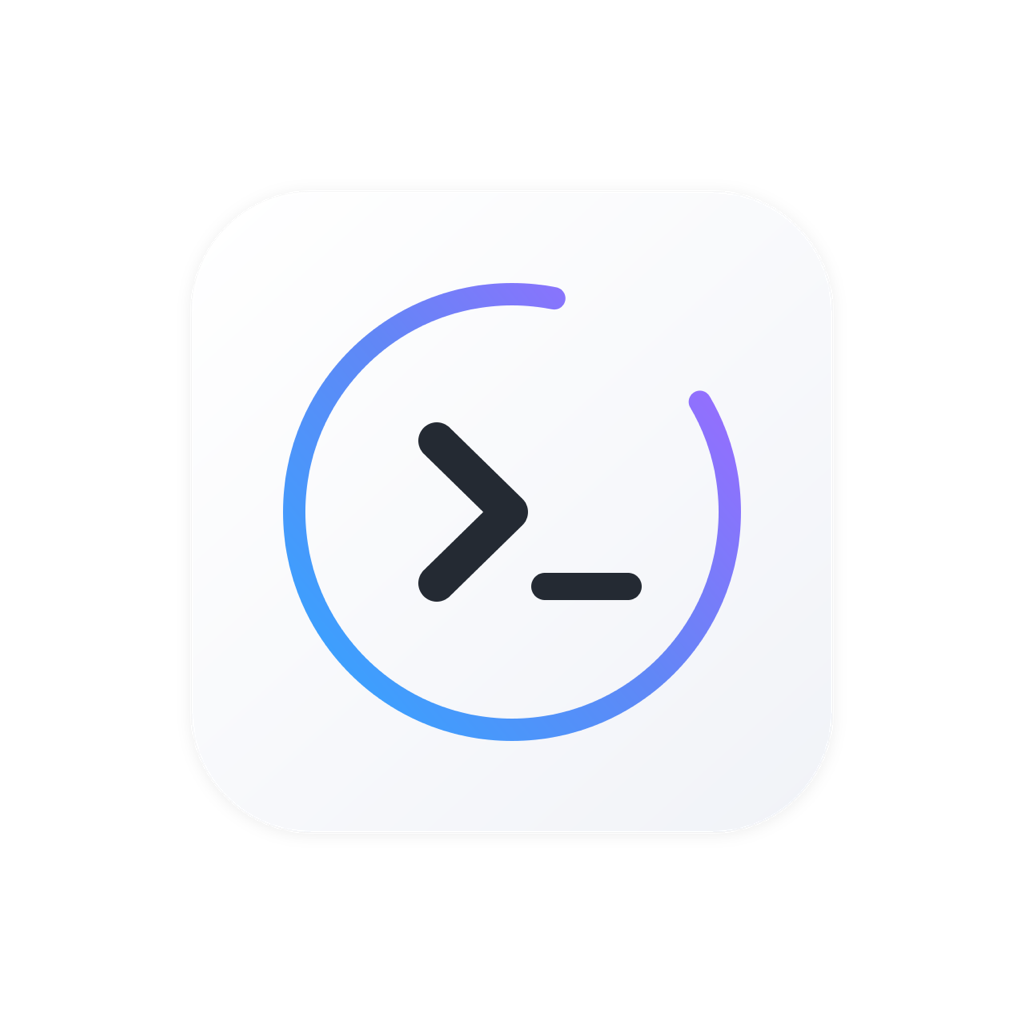
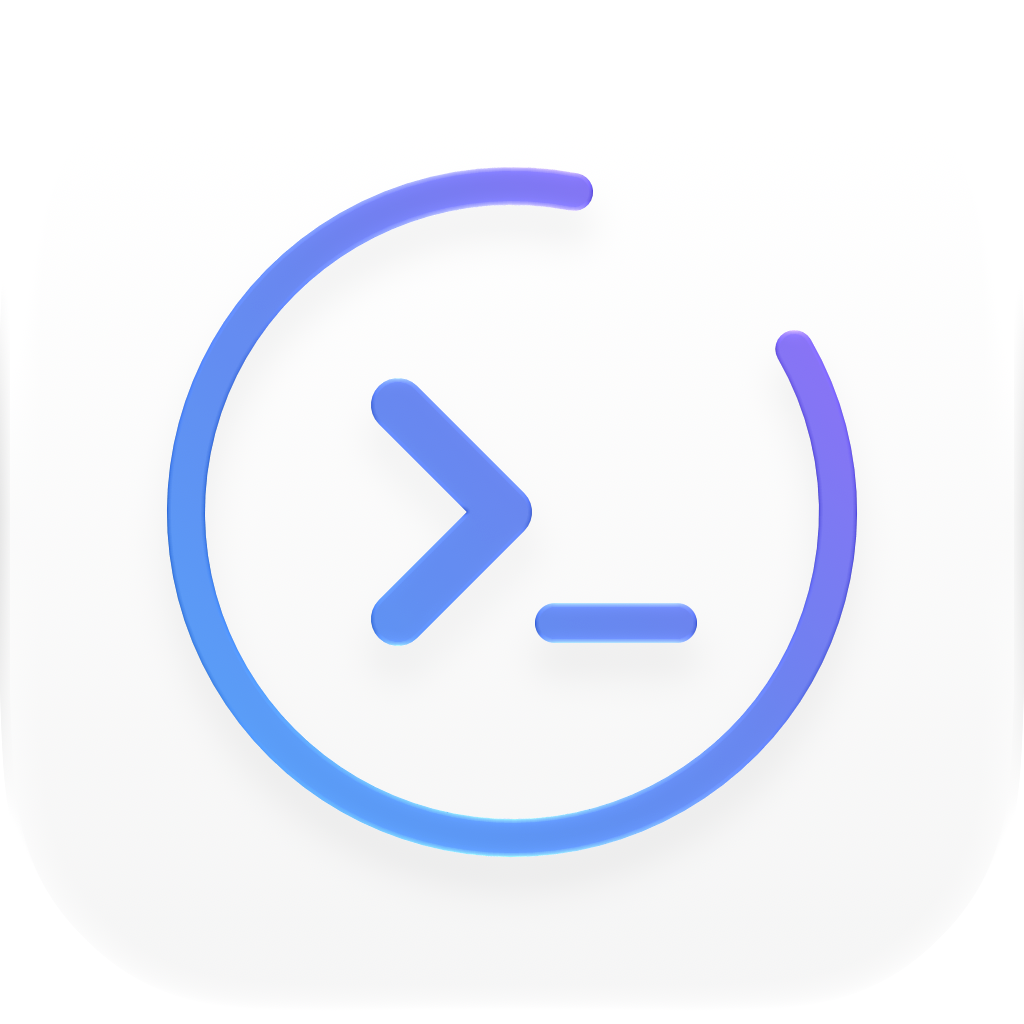
docs: publish v2.0.0 distribution

Changed region(s): [[0.1562, 0.1562, 0.8438, 0.8438], [0.25, 0.25, 0.75, 0.75]]

diff --git a/README.md b/README.md
@@ -5,8 +5,7 @@
 <h1 align="center">Loop</h1>
 
 <p align="center">
-  Native macOS workspace for running Claude Code, Codex, and Cursor across
-  projects with chat, terminals, Git, preview, planning, building, and review.
+  A native Mac workspace for Claude and Codex.
 </p>
 
 <p align="center">
@@ -15,63 +14,32 @@
 
 ---
 
-Loop is a macOS desktop control plane for local coding agents. It brings Claude
-Code, Codex, and Cursor into one project workspace with chat, terminals, diffs,
-preview, Git, and dedicated Plan, Build, and Review modes.
-
-> [!WARNING]
-> Loop is pre-2.0 software. Expect bugs and artifact-format changes. The latest
-> stable release represented by this distribution commit is v1.4.1.
-
-## Plan, Build, and Review
-
-Loop defines each mode's protocol, context, artifacts, validation, and UI. The
-selected provider owns the work inside the run, including native subagents or
-parallel workflows when supported. Loop does not maintain a separate hidden
-task scheduler.
-
-- **Plan** explores the repository, interviews you, asks for confirmation, and
-  writes a decision-complete Markdown plan. Loop validates the file after a
-  write and can request one structural repair.
-- **Build** runs a full plan, selected work items, or a custom slice through one
-  visible coordinator turn. It verifies the work and writes a validated report;
-  branch, commit, push, prevent-sleep, network, and stop options remain
-  Loop-controlled.
-- **Review** performs a read-only review over the selected scope and checks.
-  Substantive reviews can use provider-native specialists and return one
-  consolidated result.
-
-New plans and reports are inspectable Markdown under the project-local `.loop/`
-directory. `.planner` remains read-only legacy input and can be migrated
-non-destructively.
+Loop brings your coding agents, projects, terminals, and Git into one fast Mac
+app. It keeps working when you close its window, and you can use it on one Mac
+from another.
 
 ## Install
 
-1. Download the latest macOS `.dmg` from the
+1. Download the latest `.dmg` from the
    [Releases page](https://github.com/olekristianbe/loop/releases/latest).
-2. Open the DMG and drag Loop to Applications.
-3. Launch Loop.
+2. Open it and drag Loop to Applications.
+3. Open Loop.
 
 ## Requirements
 
-Loop v1.4.1 requires an Apple silicon Mac running macOS 15 or newer. Install and
-authenticate at least one supported local provider runtime:
-
-- **Claude Code** — install the `claude` CLI and authenticate once.
-- **Codex** — install the `codex` CLI and sign in.
-- **Cursor** — install a current Cursor Agent CLI with ACP support.
-
-Provider executable paths can be changed in **Settings → Providers**.
+- An Apple silicon Mac with macOS 15 or newer.
+- At least one agent, installed and signed in:
+  - **Claude Code**, with Node.js;
+  - **Codex**.
 
 ## Updates
 
-Loop checks for stable updates in the background and shows an update prompt when
-a newer release is available. Downloads and installation remain user initiated.
-You can also use **Loop → Check for Updates…** from the macOS app menu.
+Loop checks for updates by itself. When one is ready, it shows at the bottom of
+the sidebar. You can also choose **Loop › Check for Updates…**.
 
 ## Support
 
-- [Report issues](https://github.com/olekristianbe/loop/issues)
+- [Report an issue](https://github.com/olekristianbe/loop/issues)
 - [Discussions](https://github.com/olekristianbe/loop/discussions)
 
 ## License

diff --git a/docs/releases/v2.0.0.md b/docs/releases/v2.0.0.md
@@ -1,0 +1,20 @@
+# Loop 2.0
+
+Loop is now a fully native Mac app: faster, lighter, and simpler. Your
+projects, chats, and settings come with you.
+
+## What's new
+
+- Rebuilt from the ground up for macOS, with a new icon.
+- Loop keeps working when you close its window, and stays in the menu bar.
+- Use Loop on one Mac from another, over Tailscale.
+- Claude and Codex use the sign-ins you already have on your Mac.
+- New versions show up quietly at the bottom of the sidebar.
+
+## When you update
+
+Loop upgrades your data the first time it opens, and saves a backup first.
+Older versions of Loop can't open the upgraded data. To go back within 7 days,
+restore the backup in **Settings › Advanced**.
+
+Loop 2.0 needs an Apple silicon Mac with macOS 15 or newer.

diff --git a/CHANGELOG.md b/CHANGELOG.md
@@ -2,6 +2,16 @@
 
 All notable changes to Loop will be documented in this file.
 
+## v2.0.0 — Loop 2.0
+
+- Loop is now a fully native Mac app: faster, lighter, and simpler, with a new
+  icon.
+- Loop keeps working when you close its window, and stays in the menu bar.
+- Use Loop on one Mac from another, over Tailscale.
+- Claude and Codex use the sign-ins you already have on your Mac.
+- Your data is upgraded on first launch, with a backup you can restore for 7
+  days in Settings › Advanced.
+
 ## v1.4.1 - 2026-07-15 — Performance and execution reliability
 
 Loop 1.4.1 improves responsiveness in terminals, streamed code responses, and
